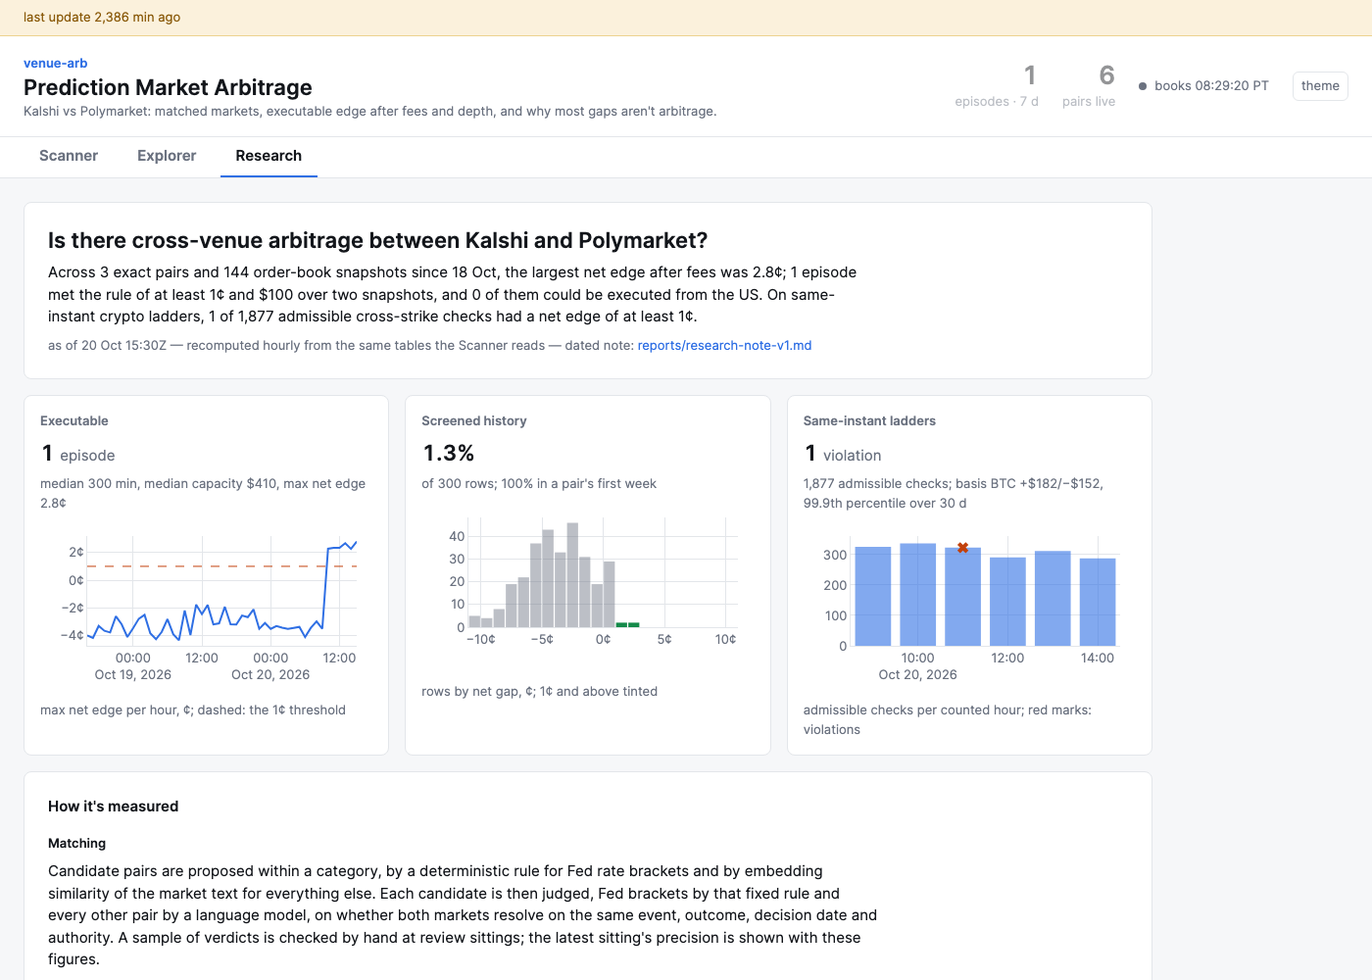
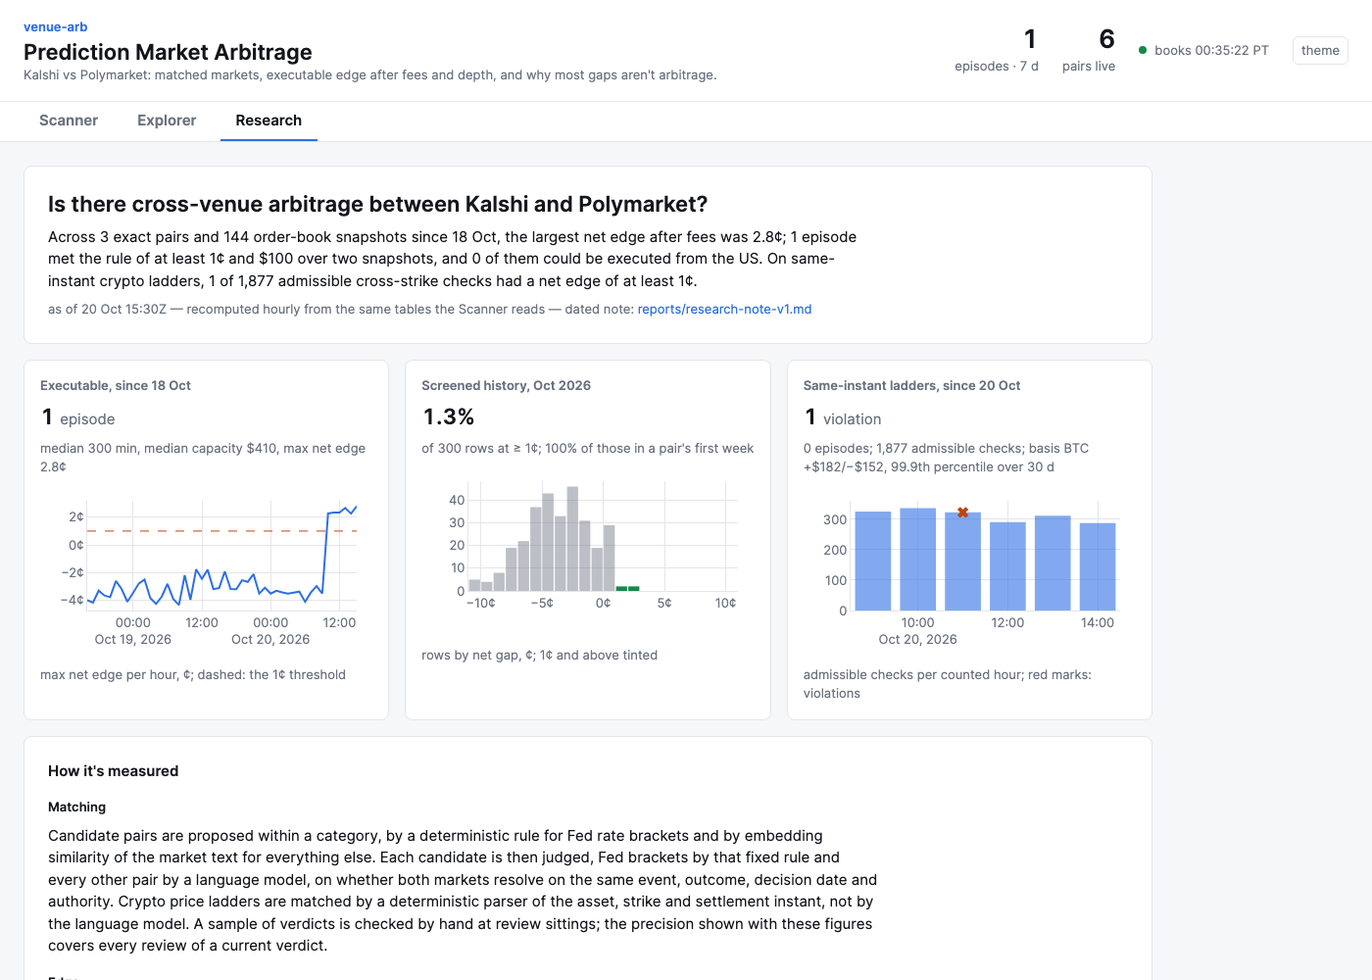
Final review fixes: episode figures per tier with windows, headline pair count, poll re-render guards, copy accuracy, research_bytes warn, docs

diff --git a/dashboard/static/research.js b/dashboard/static/research.js
@@ -6,8 +6,15 @@ const METHOD = [["matching", "Matching"], ["edge", "Edge"], ["crypto", "Crypto l
 const dash = (x, f) => x == null ? "—" : f(x);
 const count = (n, word) => `${num(n)} <span>${word}${n === 1 ? "" : "s"}</span>`;
 const at = iso => `${day(new Date(iso))} ${hm(new Date(iso))}`;
+const since = iso => iso ? `since ${day(new Date(iso))}` : "no data yet";
+const month = iso => new Date(iso).toLocaleDateString("en-GB", {month: "short", year: "numeric", timeZone: "UTC"});
+const span = (a, b) => {  // "Jun–Oct 2026"; the year once when both ends share it
+  if (!a) return "no data yet";
+  const [x, y] = [month(a), month(b)];
+  return x === y ? y : x.slice(-4) === y.slice(-4) ? `${x.slice(0, -5)}–${y}` : `${x}–${y}`;
+};
 
-const card = (id, title, figure, qualifier, caption) => `<div class="card"><h3>${title}</h3><div class="v">${figure}</div>`
+const card = (id, title, win, figure, qualifier, caption) => `<div class="card"><h3>${title}, ${win}</h3><div class="v">${figure}</div>`
   + `<p>${qualifier}</p><div class="rchart" id="${id}"></div><p class="cap">${caption}</p></div>`;
 
 export function renderResearch(bundle) {
@@ -16,22 +23,23 @@ export function renderResearch(bundle) {
   if (!r) { el.innerHTML = `<p class="mut">${NOT_COMPUTED}</p>`; return; }
   const [question, ...answer] = r.headline;
   const basis = Object.entries(r.basis).map(([a, b]) =>
-    `basis ${esc(a)} +${usd(b.up)}/${usd(-b.down)}, 99.9th percentile over ${num(b.window_days)} d`);
-  const ladderQ = r.ladder_checks == null ? "no counted hours yet"
-    : [`${num(r.ladder_checks)} admissible checks`, ...basis].join("; ");
+    `basis ${esc(a)} +${usd(b.up)}/${usd(-b.down)}, ${num(100 * r.basis_q, 1)}th percentile over ${num(b.window_days)} d`);
+  const ladderQ = [count(r.episodes_ladder, "episode"), ...(r.ladder_checks == null ? ["no counted hours yet"]
+    : [`${num(r.ladder_checks)} admissible checks`, ...basis])].join("; ");
   const rv = r.review;
   el.innerHTML = `<div class="hero"><h2>${esc(question)}</h2><p>${answer.map(esc).join(" ")}</p>`
     + `<p class="asof">as of ${at(r.computed_at)} — recomputed hourly from the same tables the Scanner reads — dated note: `
     + `<a href="${REPO}/blob/main/${esc(r.note_path)}">${esc(r.note_path)}</a></p></div>`
     + `<div class="cards">`
-    + card("rc-exec", "Executable", count(r.episodes_pair + r.episodes_ladder, "episode"),
+    + card("rc-exec", "Executable", since(r.window_start), count(r.episodes_pair, "episode"),
       `median ${dash(r.episode_median_minutes, m => `${num(m)} min`)}, median capacity ${dash(r.episode_median_capacity_usd, usd)}, `
         + `max net edge ${dash(r.max_net_edge_cents, c => cents(c))}`,
       "max net edge per hour, ¢; dashed: the 1¢ threshold")
-    + card("rc-screen", "Screened history", dash(r.screened_share_ge_1c, s => `${num(100 * s, 1)}%`),
-      `of ${num(r.screened_rows)} rows; ${dash(r.screened_share_early, s => `${num(100 * s)}%`)} in a pair's first week`,
+    + card("rc-screen", "Screened history", span(r.screened_start, r.screened_end),
+      dash(r.screened_share_ge_1c, s => `${num(100 * s, 1)}%`),
+      `of ${num(r.screened_rows)} rows at ≥ 1¢; ${dash(r.screened_share_early, s => `${num(100 * s)}%`)} of those in a pair's first week`,
       "rows by net gap, ¢; 1¢ and above tinted")
-    + card("rc-ladder", "Same-instant ladders", count(r.ladder_violations, "violation"), ladderQ,
+    + card("rc-ladder", "Same-instant ladders", since(r.ladder_start), count(r.ladder_violations, "violation"), ladderQ,
       "admissible checks per counted hour; red marks: violations")
     + `</div><div class="method"><h3>How it's measured</h3>`
     + METHOD.map(([k, h]) => `<h4>${h}</h4><p>${esc(r.method[k])}</p>`).join("")

diff --git a/dashboard/static/explorer.js b/dashboard/static/explorer.js
@@ -1,8 +1,8 @@
 // Explorer tab: the v1 pair list (collapsed ladder groups) and detail pane (verdict, cost panel, size re-walk, net-edge
 // chart with snapshot click), moved from the v1 app.js; behaviour unchanged, re-skinned to the v2 system.
 // app.js calls renderExplorer() when the tab is shown and on each poll while it is visible.
-import {$, esc, enc, num, usd, signed, cents, bpsOf, tone, css, pz, hm, seg, safeUrl, pairs, byKey, greyed,
-  label, legsTxt, settles, baseLayout, S, VERDICT_TONES, PLOT_CFG} from "./common.js";
+import {$, esc, enc, num, usd, signed, cents, bpsOf, tone, css, pz, hm, seg, safeUrl, pairs, byKey,
+  legsTxt, settles, baseLayout, S, VERDICT_TONES, PLOT_CFG} from "./common.js";
 
 const NO_WALK = "size re-walk needs published books";
 const KIND = {exact: "exact", near_exact: "near-exact", ladder: "ladder"};
@@ -47,8 +47,7 @@ const flatRows = ps => ps.filter(p => p.kind !== "ladder" || p.net_edge_cents >=
 
 function renderList() {
   const q = S.q.trim().toLowerCase();
-  const ps = pairs().filter(p => (S.cat === "all" || p.category === S.cat)
-    && (!q || [p.title, p.key, ...p.legs.map(l => l.title)].join(" ").toLowerCase().includes(q)));
+  const ps = pairs().filter(p => !q || [p.title, p.key, ...p.legs.map(l => l.title)].join(" ").toLowerCase().includes(q));
   let html = flatRows(ps).map(row).join("");
   const groups = new Map();
   for (const p of ps.filter(p => p.kind === "ladder").sort(byEdge)) {
@@ -65,7 +64,7 @@ function renderList() {
 }
 
 function row(p) {
-  return `<div class="row${p.key === S.sel ? " sel" : ""}${greyed(p) ? " grey" : ""}" data-k="${esc(p.key)}">`
+  return `<div class="row${p.key === S.sel ? " sel" : ""}" data-k="${esc(p.key)}">`
     + `<div><div class="n">${esc(p.title)} <span class="kind k-${p.kind}">${KIND[p.kind]}</span></div>`
     + `<div class="m"><span>${settles(p.settles_at)}</span><span>${legsTxt(p)}</span>${p.live ? "" : "<span>stale</span>"}</div></div>`
     + `<div class="e ${tone(p.net_edge_cents)}">${fig(p.net_edge_cents, p.net_edge_bps)}</div>${spark(p)}</div>`;
@@ -120,7 +119,7 @@ function refreshDetail() {
 }
 
 function renderHead() {
-  const p = byKey(S.sel), lab = label(p), t = VERDICT_TONES.find(([l]) => lab.startsWith(l))?.[1] ?? "none";
+  const p = byKey(S.sel), lab = p.verdict.label, t = VERDICT_TONES.find(([l]) => lab.startsWith(l))?.[1] ?? "none";
   const legs = p.legs.map(l => {
     const k = l.venue === "kalshi", id = k ? l.market_id : l.url.split("/event/")[1] || l.market_id;
     return `<a class="leg" href="${esc(safeUrl(l.url))}" target="_blank" rel="noopener"><span class="sw" style="background:var(--${k ? "k" : "pm"})"></span>`

diff --git a/dashboard/static/app.js b/dashboard/static/app.js
@@ -7,6 +7,9 @@ import {renderExplorer} from "./explorer.js";
 import {renderResearch} from "./research.js";
 
 const TABS = ["scanner", "explorer", "research"];
+// what is on screen: a poll re-renders the Scanner rows only for a new bundle, the Research tab only for a new summary
+// or theme (the Explorer guards itself); a rebuild on every poll would drop keyboard focus and re-draw the charts
+const shown = {scanner: null, research: null};
 
 async function load() {
   try {
@@ -15,7 +18,9 @@ async function load() {
     const {bundle, age_s} = await res.json();
     S.bundle = bundle; S.age = age_s; S.fetchedAt = Date.now();
     S.skew = Date.parse(bundle.computed_at) + age_s * 1000 - Date.now();  // server clock, via age_s
-    renderHeader(); renderScanner(); renderTab(); renderFoot(); tick();
+    renderHeader();
+    if (bundle.computed_at !== shown.scanner) { shown.scanner = bundle.computed_at; renderScanner(); }
+    renderTab(); renderFoot(); tick();
   } catch (e) {
     $("clock").textContent = `cannot load the live bundle (${e.message}); retrying in 30 s`;
   }
@@ -49,7 +54,10 @@ function renderTab() {
   }
   if (!S.bundle) return;
   if (t === "explorer") renderExplorer();
-  else if (t === "research") renderResearch(S.bundle);
+  else if (t === "research") {
+    const k = `${S.bundle.research?.computed_at}|${document.documentElement.dataset.theme}`;
+    if (k !== shown.research) { shown.research = k; renderResearch(S.bundle); }
+  }
 }
 
 function renderFoot() {

diff --git a/dashboard/static/scanner.js b/dashboard/static/scanner.js
@@ -55,9 +55,9 @@ const exampleRow = () => `<tr class="example" data-example><td><span class="titl
 
 export function renderScanner() {
   const b = S.bundle, k = b.kpis, {rows, counts, example} = scannerRows(b.pairs, S);
-  const cats = Object.keys({...b.categories, ...counts}).filter(c => c !== "all");
+  const cats = Object.keys({...b.categories, ...counts}).filter(c => c !== "all" && counts[c]);  // only categories present
   $("chips").innerHTML = [["all", "All"], ...cats.map(c => [c, b.categories[c] ?? c])]
-    .map(([c, name]) => `<button class="chip${c === S.cat ? " on" : ""}" data-c="${esc(c)}">${esc(name)} <span>${counts[c] ?? 0}</span></button>`).join("");
+    .map(([c, name]) => `<button class="chip${c === S.cat ? " on" : ""}" data-c="${esc(c)}">${esc(name)} <span>${counts[c]}</span></button>`).join("");
   $("usban").hidden = !usBlocked();
   $("usban").textContent = US_BANNER;
   $("srows").innerHTML = (rows.map(row).join("") || `<tr><td colspan="7" class="mut">No pair in this category.</td></tr>`)

diff --git a/dashboard/static/common.js b/dashboard/static/common.js
@@ -14,7 +14,7 @@ export const VERDICT_TONES = [["Exact match · no edge", "none"], [EXEC, "exec"]
   ["Spread · within basis bound · no edge", "none"], ["No asks on one side", "stale"],
   ["Stale · a leg has no snapshot in 5 min", "stale"], [NOT_US, "stale"]];
 export const EXAMPLE = "Example — what a row looks like when a pair clears the rule";
-export const FOOT = "{n} pairs — per-leg quotes are not published (venue display terms) — ROI = net edge ÷ all-in cost per contract — ";
+export const FOOT = "{n} pairs listed — per-leg quotes are not published (venue display terms) — ROI = net edge ÷ all-in cost per contract — ";
 export const FOOT_CHECKS = "{checks} admissible ladder checks in the last scored hour, {violations} violations";
 export const FOOT_NO_HOUR = "no scored hour yet";
 

diff --git a/venue_arb/publish.py b/venue_arb/publish.py
@@ -51,10 +51,11 @@ HISTORY_SIZE_BUDGET_MB = 50
 # local hour files older than this are deleted; the server's prune cron cutoff (8 d, Task 9) must be no shorter, or
 # rsync (no --delete) copies back every file the cron removed
 HISTORY_KEEP = timedelta(days=HISTORY_DAYS + 1)
-LIVE_BYTES_BUDGET = 800_000  # real bundles are ~460 KB with ~215 pair rows; headroom for the research block
+LIVE_BYTES_BUDGET = 800_000  # real bundles are ~70–100 KB today (research included); headroom for growth
 HISTORY_LAG = timedelta(minutes=55)  # an hour is written once score (:40) and ladder_score (:50) have scored it
 GAP = timedelta(minutes=3)
 RESEARCH_TIMEOUT_WARN_S = 30  # the hourly research summary blocks one cycle; warn when it takes longer
+RESEARCH_BYTES_WARN = 150_000  # research block JSON; exec_hourly grows ~1 point/hour (docs/going-public.md backlog)
 PUSH_TIMEOUT_S = 120  # rsync's --timeout covers stalled I/O, not a black-holed ssh connect
 OUT_DIR = Path("data/bundle")
 LIVE_TARGET, HISTORY_TARGET = "bundle/live.json", "bundle/history"
@@ -505,6 +506,7 @@ def default_readers(db) -> dict:
 #   research          last good ResearchSummary (tick puts it in the bundle)
 #   research_hour     history_hour of the last research attempt, success or failure
 #   research_failed   failed attempts since the last record   research_seconds   last attempt's seconds, until recorded
+#   research_bytes    last computed summary's JSON size, until recorded
 def cycle(state: dict, readers: dict, out_dir: Path, dest: str | None, now: datetime, *, checks, db=None,
           write=write_atomic, push=push, clock=time.monotonic) -> list:
     """One loop iteration, in order: tick -> live.json -> push -> due history hours -> research (once per
@@ -542,6 +544,7 @@ def cycle(state: dict, readers: dict, out_dir: Path, dest: str | None, now: date
         state["research_hour"], t0 = history_hour(now), clock()
         try:
             state["research"] = compute_research(readers, now)
+            state["research_bytes"] = len(state["research"].model_dump_json())
         except Exception:
             log.exception("research summary failed, keeping the previous one")
             state["research_failed"] = state.get("research_failed", 0) + 1
@@ -604,6 +607,9 @@ def _results(checks, state: dict, interval_s: int) -> list:
         out.append(checks.Result("research_seconds", secs <= RESEARCH_TIMEOUT_WARN_S, round(secs, 1),
                                  RESEARCH_TIMEOUT_WARN_S, f"research summary took {secs:.1f}s", severity="warn",
                                  target=LIVE_TARGET))
+    if (size := state.pop("research_bytes", None)) is not None:  # only after a successful computation
+        out.append(checks.Result("research_bytes", size <= RESEARCH_BYTES_WARN, size, RESEARCH_BYTES_WARN,
+                                 f"research summary is {size:,} bytes", severity="warn", target=LIVE_TARGET))
     if pushes:
         bad = pushes.count(False)
         out.append(checks.Result("push", bad == 0, bad, 0, f"{bad}/{len(pushes)} pushes failed", target=LIVE_TARGET))

diff --git a/venue_arb/report/copy.py b/venue_arb/report/copy.py
@@ -4,15 +4,19 @@ METHOD is shipped in the bundle by the publisher; `note.render` uses `edge` and 
 equivalent method sentences (`matching` and `not_shown` have no equivalent in the note), so both say the same thing.
 HEADLINE holds str.format templates the reducer (`venue_arb.report.research`) fills.
 """
+from venue_arb.basis import BASIS_Q
 from venue_arb.config import BASIS_WINDOW_DAYS
+
+PERCENTILE = f"{100 * BASIS_Q:g}th percentile"  # 0.999 -> "99.9th percentile"
 
 METHOD: dict[str, str] = {
     "matching": (
         "Candidate pairs are proposed within a category, by a deterministic rule for Fed rate brackets and by "
         "embedding similarity of the market text for everything else. Each candidate is then judged, Fed brackets "
         "by that fixed rule and every other pair by a language model, on whether both markets resolve on the same "
-        "event, outcome, decision date and authority. A sample of verdicts is checked by hand at review sittings; "
-        "the latest sitting's precision is shown with these figures."),
+        "event, outcome, decision date and authority. Crypto price ladders are matched by a deterministic parser of "
+        "the asset, strike and settlement instant, not by the language model. A sample of verdicts is checked by "
+        "hand at review sittings; the precision shown with these figures covers every review of a current verdict."),
     "edge": (
         "Prices come from our own snapshots of both venues' order books, taken every 60 seconds, not from last "
         "trades or midpoints. For each exact pair we buy Yes on one venue and No on the other, walking up both "
@@ -22,7 +26,7 @@ METHOD: dict[str, str] = {
     "crypto": (
         "Both venues list Bitcoin and Ethereum price ladders, but they settle on different price indexes, so only "
         "ladders that settle at the same instant are compared. A Kalshi strike against a different Polymarket "
-        "strike counts only when the gap between the two strikes is at least the 99.9th percentile of the "
+        f"strike counts only when the gap between the two strikes is at least the {PERCENTILE} of the "
         f"difference between the two settlement indexes over the past {BASIS_WINDOW_DAYS} days. Then at least one "
         "leg pays out in every state, as long as the indexes stay within that measured range."),
     "not_shown": (
@@ -43,6 +47,5 @@ HEADLINE: dict[str, str] = {
                 "edge of at least 1¢."),
     "ladders_none": ("On same-instant crypto ladders there are no counted hours yet, so no admissible checks to "
                      "report."),
+    "ladder_episodes": " On ladders, {episodes} met the same episode rule.",  # appended when there are any
 }
-
-NOT_COMPUTED = "research summary not computed yet"

diff --git a/venue_arb/report/research.py b/venue_arb/report/research.py
@@ -3,6 +3,7 @@ from datetime import datetime
 
 import numpy as np
 
+from venue_arb.basis import BASIS_Q
 from venue_arb.bundle import Basis, ResearchHist, ResearchLadderSeries, ResearchSeries, ResearchSummary
 from venue_arb.config import BASIS_WINDOW_DAYS
 from venue_arb.report import copy
@@ -44,16 +45,21 @@ def from_summary(s: dict, *, review: dict | None, computed_at: datetime) -> Rese
     max_edge = f"{100 * ex['best_edge_max']:.1f}¢" if ex["best_edge_max"] is not None else "—"
     headline = [
         copy.HEADLINE["question"],
-        copy.HEADLINE["answer"].format(pairs=_n(s["pairs"]["eligible"], "exact pair"),
+        # pairs with snapshots in scope, the pairs the snapshots and episodes come from (not every eligible pair)
+        copy.HEADLINE["answer"].format(pairs=_n(ex["pairs"], "exact pair"),
                                        snapshots=_n(ex["snapshots"], "order-book snapshot"), since=since,
                                        max_edge=max_edge, episodes=_n(ex["episodes"], "episode"),
                                        us_episodes=f"{s['jurisdiction']['us_episodes']:,}"),
-        copy.HEADLINE["ladders"].format(violations=f"{lad['pos_counted']:,}", checks=f"{lad['admissible_checks']:,}")
-        if lad["admissible_checks"] is not None else copy.HEADLINE["ladders_none"],
+        (copy.HEADLINE["ladders"].format(violations=f"{lad['pos_counted']:,}", checks=f"{lad['admissible_checks']:,}")
+         if lad["admissible_checks"] is not None else copy.HEADLINE["ladders_none"])
+        + (copy.HEADLINE["ladder_episodes"].format(episodes=_n(lad["episodes"], "episode")) if lad["episodes"] else ""),
     ]
     return ResearchSummary(
         computed_at=computed_at,
         window_start=ex["start"],
+        screened_start=sc["start"],
+        screened_end=sc["end"],
+        ladder_start=lad["start"],
         headline=headline,
         pairs_eligible=s["pairs"]["eligible"],
         pairs_reviewed=s["pairs"]["reviewed"],
@@ -73,6 +79,7 @@ def from_summary(s: dict, *, review: dict | None, computed_at: datetime) -> Rese
         # an asset below LADDER_MIN_BASIS hours has no bound (its ladders are not scored), so it is left out
         basis={a: Basis(up=v["up"], down=v["down"], window_days=BASIS_WINDOW_DAYS, asof=computed_at)
                for a, v in lad["basis"].items() if v["up"] is not None},
+        basis_q=BASIS_Q,
         review=review,
         exec_hourly=_exec_hourly(ex["series"]),
         screened_hist=_screened_hist(sc["values"]),

diff --git a/tests/test_research.py b/tests/test_research.py
@@ -1,6 +1,7 @@
 from datetime import UTC, datetime, timedelta
 
-from tests.test_note import ADM, BASIS, HOURS, T0, edge, episode, pair, screened
+from tests.test_note import ADM, BASIS, HOURS, T0, edge, episode, lepisode, lgroup, pair, screened
+from venue_arb.basis import BASIS_Q
 from venue_arb.bundle import ResearchSummary
 from venue_arb.report import copy, note, research
 
@@ -19,6 +20,9 @@ def test_from_summary_headline_numbers():
     assert "3 episodes" in r.headline[1] and "1.9¢" in r.headline[1] and "19 Oct" in r.headline[1]
     assert r.max_net_edge_cents == 1.92 and r.episodes_pair == 3 and r.episodes_us == 1 and r.snapshots == 2
     assert r.pairs_eligible == 2 and r.window_start == T0 and r.method == copy.METHOD
+    # the headline counts pairs with snapshots in scope (K-1 only), not every eligible pair
+    assert "Across 1 exact pair and 2 order-book snapshots" in r.headline[1]
+    assert r.basis_q == BASIS_Q and copy.PERCENTILE == "99.9th percentile" and copy.PERCENTILE in copy.METHOD["crypto"]
     assert r.note_path == "reports/research-note-v1.md"
     empty = reduce(note.summarize([], [], [], []))
     assert "—" in empty.headline[1] and "0 episodes" in empty.headline[1] and empty.max_net_edge_cents is None
@@ -72,3 +76,17 @@ def test_from_summary_validates():
     j = r.model_dump_json()
     # compare as JSON: `review` is a plain dict, so its datetime comes back as a string
     assert ResearchSummary.model_validate_json(j).model_dump_json() == j and len(j) < 150_000
+
+
+def test_tier_windows_and_ladder_episodes():
+    s = note.summarize([pair()], [screened(h=0), screened(h=5)], [edge(m=30)], [episode()],
+                       ladder_rows=[lgroup()], ladder_episodes=[lepisode(), lepisode()], admissible=ADM,
+                       ladder_hours=HOURS)
+    r = reduce(s)
+    assert r.window_start == T0 + timedelta(minutes=30) and r.ladder_start == T0
+    assert (r.screened_start, r.screened_end) == (T0, T0 + timedelta(hours=5))
+    assert r.episodes_pair == 1 and r.episodes_ladder == 2
+    assert r.headline[2].endswith(copy.HEADLINE["ladder_episodes"].format(episodes="2 episodes"))
+    empty = reduce(note.summarize([], [], [], []))
+    assert empty.screened_start is empty.screened_end is empty.ladder_start is None
+    assert empty.headline[2] == copy.HEADLINE["ladders_none"]  # no ladder episodes: no episode clause

diff --git a/venue_arb/bundle.py b/venue_arb/bundle.py
@@ -134,7 +134,10 @@ class ResearchLadderSeries(_M):
 
 class ResearchSummary(_M):
     computed_at: datetime
-    window_start: datetime | None
+    window_start: datetime | None  # executable tier: first order-book snapshot in scope
+    screened_start: datetime | None  # screened tier: first and last hourly row
+    screened_end: datetime | None
+    ladder_start: datetime | None  # ladder tier: first aligned snapshot
     headline: list[str]  # 2-3 sentences, numbers already formatted, publisher-owned
     pairs_eligible: int
     pairs_reviewed: int
@@ -152,6 +155,7 @@ class ResearchSummary(_M):
     ladder_violations: int
     ladder_scored: int
     basis: dict[str, Basis]
+    basis_q: float  # the basis bound's quantile (basis.BASIS_Q); the client words it as a percentile
     review: dict | None  # {"precision": float, "labels": int, "asof": datetime} or None
     exec_hourly: ResearchSeries  # max net edge (¢) per hour over all scoped pairs, whole history
     screened_hist: ResearchHist  # net-gap histogram, 1¢ bins, 23 edges -11..11 (end bins open: < -10¢, >= +10¢)
@@ -171,8 +175,8 @@ class LiveBundle(_M):
     annotations: list[Annotation]
     attribution: list[str]
     caveats: list[str]
-    categories: dict[str, str]  # category slug -> display name
-    research: ResearchSummary | None
+    categories: dict[str, str] = {}  # category slug -> display name
+    research: ResearchSummary | None = None
 
 
 def roi(net_edge_cents: float | None) -> float | None:

diff --git a/tests/test_dashboard_static.py b/tests/test_dashboard_static.py
@@ -2,6 +2,9 @@ import hashlib
 import re
 from pathlib import Path
 
+from venue_arb.bundle import Pair, ResearchSummary
+from venue_arb.report import copy
+
 STATIC = Path(__file__).parent.parent / "dashboard" / "static"
 TEXT = ("index.html", "styles.css", *sorted(p.name for p in STATIC.glob("*.js") if p.name != "plotly-basic.min.js"))
 VERDICTS = ("Exact match · no edge", "Executable edge", "Not an arbitrage · basis exposure",
@@ -110,5 +113,14 @@ def test_charts_share_one_base_layout():
 def test_no_mid_dot_outside_verdict_labels():
     for name in (n for n in TEXT if n.endswith(".js")):
         for i, line in enumerate(_read(name).splitlines(), 1):
-            if "·" in line:
-                assert any(v in line for v in MIDDOT_OK) or "VERDICT_TONES = [" in line, (name, i, line)
+            for v in MIDDOT_OK:
+                line = line.replace(v, "")
+            assert "·" not in line, (name, i, line)
+    assert "·" not in "".join(copy.METHOD.values()) + "".join(copy.HEADLINE.values())
+
+
+def test_js_reads_only_model_fields():
+    # the seam: every r.<field> the Research tab reads and every p.<field> the Scanner reads exists on the model
+    for name, var, model in (("research.js", "r", ResearchSummary), ("scanner.js", "p", Pair)):
+        read = set(re.findall(rf"\b{var}\.([a-z_0-9]+)", _read(name)))
+        assert read and read <= set(model.model_fields), (name, read - set(model.model_fields))

diff --git a/tests/test_bundle.py b/tests/test_bundle.py
@@ -215,11 +215,13 @@ def test_categories_from_taxonomy_display():
 def test_research_optional():
     b = _live(_ex(), _lad())
     assert b.research is None and LiveBundle.model_validate_json(b.model_dump_json()) == b
+    bare = b.model_dump(exclude={"categories", "research"})  # Ruling 5: both default when absent
+    assert LiveBundle.model_validate(bare).categories == {} and LiveBundle.model_validate(bare).research is None
     rs = ResearchSummary(
-        computed_at=NOW, window_start=None, headline=["a.", "b."], pairs_eligible=3, pairs_reviewed=1, snapshots=10,
+        computed_at=NOW, window_start=None, screened_start=None, screened_end=None, ladder_start=None, headline=["a.", "b."], pairs_eligible=3, pairs_reviewed=1, snapshots=10,
         max_net_edge_cents=None, episodes_pair=0, episodes_ladder=1, episodes_us=0, episode_median_minutes=None,
         episode_median_capacity_usd=None, screened_rows=0, screened_share_ge_1c=None, screened_share_early=None,
-        ladder_checks=None, ladder_violations=0, ladder_scored=0, basis=BASIS, review=None,
+        ladder_checks=None, ladder_violations=0, ladder_scored=0, basis=BASIS, basis_q=0.999, review=None,
         exec_hourly=ResearchSeries(ts=[NOW], values=[None]),
         screened_hist=ResearchHist(edges=[float(x) for x in range(-10, 12)], counts=[0] * 21),
         ladder_hourly=ResearchLadderSeries(ts=[], checks=[], violations=[]),
